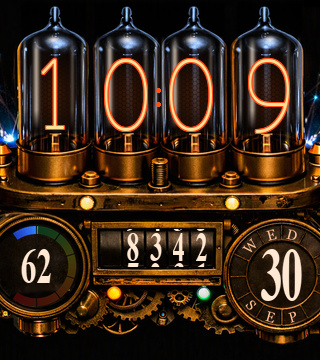
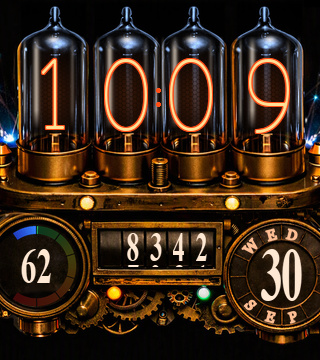
docs: L65 - belt spacing and stroke-bolding for readability

diff --git a/docs/LESSONS_LEARNT.md b/docs/LESSONS_LEARNT.md
@@ -533,3 +533,19 @@ Consequences worth keeping:
   in `INK_TIME`. (Same finding as L63's separator dots, from the other direction.)
 - **`thin`/`thick` are one argument each on the font generator**, so going back is a one-line change
   plus `make.py assets`, not a redesign.
+
+**L65. Two readability fixes that were geometry and rendering, not colour.** The user asked for "at
+least one more vertical pixel between the numbers of each digit on the steps count" and for the
+weekday and month names on the dial ring to be bold.
+
+- **Belt spacing is a layout constant with a readability floor.** `BELT_PITCH` was 30 px with 28 px
+  digits on the belt — a 2 px gap — so the window's top and bottom edges showed a fat sliver of the
+  neighbouring numeral, which reads as broken digits rather than as a belt. At 32 px the gap is 4 px
+  and the window holds the numeral cleanly. The pitch is one number in `prepare_artwork.py`
+  (`BELT_PITCH_SRC`), generated into `Layout.mc`, and both the view's roll animation and the preview
+  read it from there.
+- **Bold by STROKE, not by adding a font.** The ring's WED / SEP are Georgia glyphs rendered at a
+  ~10 px cap into opaque patches; L56 already flags the rasterised Windows faces as a licensing grey
+  area, so the fix was an outline on the same glyph (`stroke_width` at SS x = 0.8 px at final size)
+  rather than bolting on Georgia Bold. At a 10 px cap that takes Georgia's ~1.2 px stems to ~2 px —
+  the difference between a leaping word and a smudge on the wrist.
